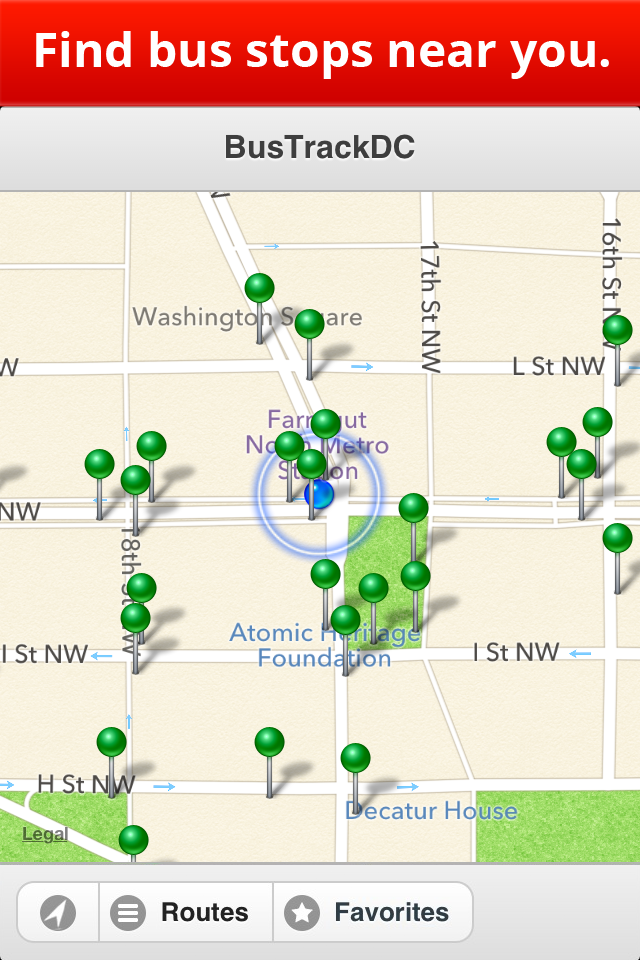
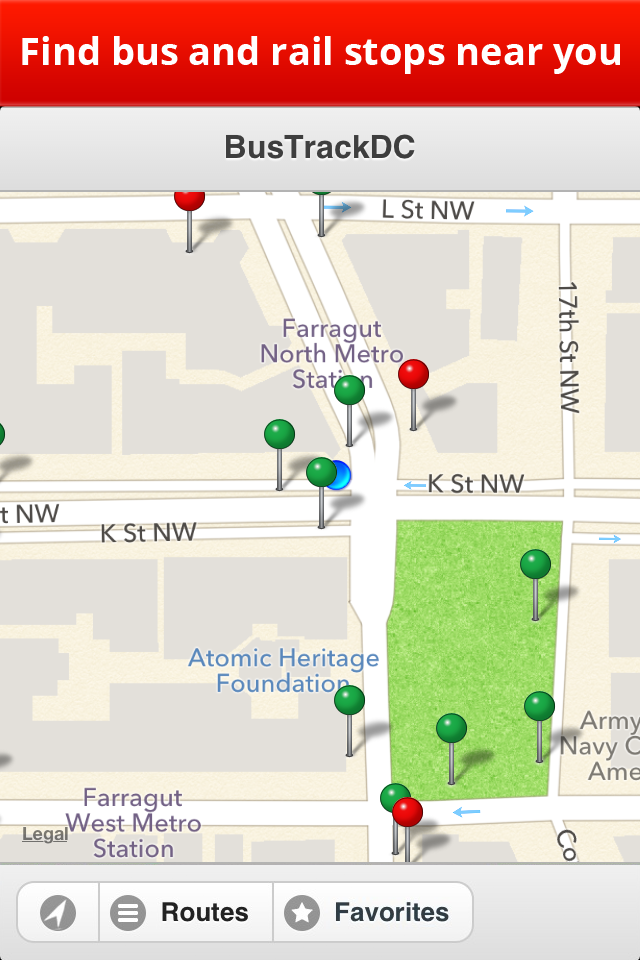
Version 1.3 updates
Adding rail stops text

diff --git a/index.html b/index.html
@@ -10,7 +10,7 @@
     <!--[if lt IE 9]>
     <script src="//html5shiv.googlecode.com/svn/trunk/html5.js"></script>
     <![endif]-->
-    <title>BusTrackDC by j-ro</title>
+    <title>BusTrackDC -- Find out when your bus or train is arriving</title>
 
     <style>
     	.center {
@@ -51,6 +51,8 @@
     	
     	header h2 {
     		float: left;
+    		width: 500px;
+    		font-size: 22px;
     	}
     	
     	.clear {
@@ -62,7 +64,9 @@
     	}
     </style>
     
-    <meta property="og:title" content="BusTrackDC -- Find out when your bus is arriving"/> <meta property="og:description" content="Do you live in Washington, DC and ride the bus? BusTrackDC tells you when the next bus arrives! (And lets you find nearby bus stops, save favorite stops, and see route maps.) Free for iPhone -- download it today!"/><meta property="og:image" content="http://j-ro.github.com/WheresTheBusDC/images/bustrack-icon.jpg"/>
+    <meta property="og:title" content="BusTrackDC -- Find out when your bus or train is arriving"/> <meta property="og:description" content="Do you live in Washington, DC and ride the bus or train? BusTrackDC tells you when the next bus or train arrives! (And lets you find nearby bus and rail stops, save favorite stops, and see route maps.) Free for iPhone -- download it today!"/><meta property="og:image" content="http://j-ro.github.com/WheresTheBusDC/images/bustrack-icon.jpg"/>
+    
+    <link rel="icon" type="image/jpeg" href="images/bustrack-icon.jpg" />
 
   </head>
 
@@ -73,13 +77,13 @@
         <header>
         	<a href="https://itunes.apple.com/us/app/bustrackdc/id597188689?ls=1&amp;mt=8"><img src="images/bustrack-icon.jpg" class="header-image" /></a>
           <h1>BusTrackDC</h1>
-          <small>version 1.2</small>
-          <h2>Do you live in Washington, DC and ride the bus?<br/>BusTrackDC tells you when the next bus arrives!</h2>
+          <small>version 1.3</small>
+          <h2>Do you live in Washington, DC and ride the bus or train?<br/>BusTrackDC tells you when the next bus or train arrives!</h2>
         </header>
         
 
         
-       <!--  <p class="clear padding-top"><strong>NEW FEATURE: Favorites -- save your favorite stops for easy access!</strong> <br/>Get BusTrackDC for FREE for your iPhone on the app store -- <a href="https://itunes.apple.com/us/app/bustrackdc/id597188689?ls=1&amp;mt=8">click here!</a></p> -->
+       <p class="clear padding-top"><strong>NEW FEATURE: Now with Metro Rail stops!</strong> <br/>Get BusTrackDC for FREE for your iPhone on the app store -- <a href="https://itunes.apple.com/us/app/bustrackdc/id597188689?ls=1&amp;mt=8">click here!</a></p>
 
         <div class="center">       
 	        <a href="https://itunes.apple.com/us/app/bustrackdc/id597188689?ls=1&amp;mt=8" ><img src="https://raw.github.com/j-ro/WheresTheBusDC/master/appstore/appstore.png"></a>
@@ -100,9 +104,9 @@
        
 
 
-<p><strong>Where's the nearest bus stop? When's my bus coming? Is that bus going my way?</strong> Find out in real time thanks to WMATA's data feeds and BusTrackDC. And now you can save your favorite stops for easy access!</p>
+<p><strong>Where's the nearest bus or rail stop? When's my bus or train coming? Is that bus or train going my way?</strong> Find out in real time thanks to WMATA's data feeds and BusTrackDC. And now you can save your favorite stops for easy access!</p>
 
-<p>I take the bus to work and I made BusTrackDC after my favorite app stopped working. I hope you find it as useful as I do!</p>
+<p>I take the bus and train to work and I made BusTrackDC after my favorite app stopped working. I hope you find it as useful as I do!</p>
 
 <p><strong><a href="https://itunes.apple.com/us/app/bustrackdc/id597188689?ls=1&amp;mt=8">Click here to download BusTrackDC from the app store.</a></strong></p>
 
@@ -137,13 +141,15 @@
 <h1>Screenshots</h1>
 <br/>
 
-<p><a href="https://itunes.apple.com/us/app/bustrackdc/id597188689?ls=1&amp;mt=8"><img src="images/screenshot1.png" alt="Find a bus stop near you"></a></p>
+<p><a href="https://itunes.apple.com/us/app/bustrackdc/id597188689?ls=1&amp;mt=8"><img src="images/screenshot1.png" alt="Find a bus or rail stop near you"></a></p>
 
 <p><a href="https://itunes.apple.com/us/app/bustrackdc/id597188689?ls=1&amp;mt=8"><img src="images/screenshot2.png" alt="See when your bus is arriving"></a></p>
 
+<p><a href="https://itunes.apple.com/us/app/bustrackdc/id597188689?ls=1&amp;mt=8"><img src="images/screenshot6.png" alt="See when your train is arriving"></a></p>
+
 <p><a href="https://itunes.apple.com/us/app/bustrackdc/id597188689?ls=1&amp;mt=8"><img src="images/screenshot4.png" alt="Save favorite stops for easy access"></a></p>
 
-<p><a href="https://itunes.apple.com/us/app/bustrackdc/id597188689?ls=1&amp;mt=8"><img src="images/screenshot3.png" alt="Is that bus going your way? Find out with a route map."></a></p>
+<p><a href="https://itunes.apple.com/us/app/bustrackdc/id597188689?ls=1&amp;mt=8"><img src="images/screenshot3.png" alt="Is that bus or train going your way? Find out with a route map."></a></p>
 
 <p><a href="https://itunes.apple.com/us/app/bustrackdc/id597188689?ls=1&amp;mt=8"><img src="images/screenshot5.png" alt="Search for routes by name"></a></p>
 
